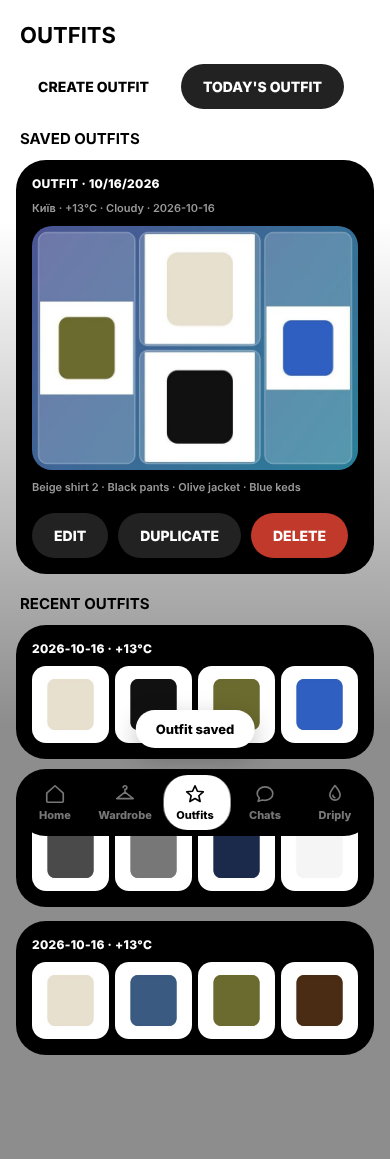
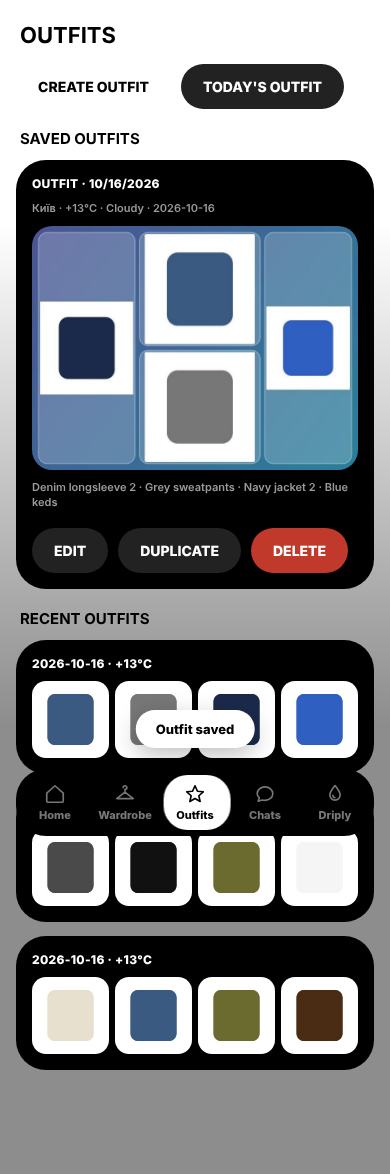
Keep pages scrollable so the tab bar sits at the same bottom position on every tab (iOS), SW v100
Claude-Session: https://claude.ai/code/session_01S2HiD2gXmzHQ91dDofdPVs

diff --git a/sw.js b/sw.js
@@ -1,4 +1,4 @@
-const V='wardrobe-v99',MEDIA='wd-media',DEMO=["demo/chinos-beige.webp", "demo/coat-trench.webp", "demo/coat-wool.webp", "demo/hoodie-black-zip.webp", "demo/hoodie-grey.webp", "demo/jacket-black-highneck.webp", "demo/jacket-bomber.webp", "demo/jacket-denim-black.webp", "demo/jacket-denim.webp", "demo/jacket-rain.webp", "demo/jacket-suede-beige.webp", "demo/jeans-black-flare.webp", "demo/jeans-black-wide.webp", "demo/jeans-black.webp", "demo/jeans-blue.webp", "demo/jeans-lightblue-flare.webp", "demo/loafers-brown.webp", "demo/longsleeve-striped.webp", "demo/polo-black.webp", "demo/polo-white.webp", "demo/puffer-black.webp", "demo/puffer-white.webp", "demo/shirt-blue.webp", "demo/shirt-white.webp", "demo/shorts-denim.webp", "demo/sneakers-black.webp", "demo/sneakers-gat-black.webp", "demo/sneakers-gat-white.webp", "demo/sneakers-white.webp", "demo/sweater-beige.webp", "demo/sweater-black-cable.webp", "demo/sweater-black-quarter.webp", "demo/sweater-grey-cable.webp", "demo/sweater-navy.webp", "demo/sweater-pink-cable.webp", "demo/sweater-white-cable.webp", "demo/sweatpants-grey.webp", "demo/tee-black.webp", "demo/tee-grey.webp", "demo/tee-white.webp", "demo/trousers-black.webp", "demo/jordan-puffer-black.webp", "demo/palace-puffer-black.webp", "demo/bape-tee-white.webp", "demo/balenciaga-fortnite-tee.webp", "demo/polo-usa-zip-hoodie-grey.webp", "demo/mastermind-hoodie-black.webp", "demo/mastermind-hoodie-pink.webp", "demo/supreme-waffle-sweater-cream.webp", "demo/supreme-waffle-sweater-black.webp", "demo/saint-laurent-mohair-sweater.webp", "demo/supreme-blur-sweater.webp", "demo/supreme-zip-hoodie-black.webp", "demo/supreme-zip-hoodie-grey.webp", "demo/supreme-zip-hoodie-washed-black.webp"],SHELL=['./','index.html','i18n.js','social.js','editor.js','chat.js','manifest.webmanifest','icons/icon-192.png','icons/icon-512.png','tab.mp3'];
+const V='wardrobe-v100',MEDIA='wd-media',DEMO=["demo/chinos-beige.webp", "demo/coat-trench.webp", "demo/coat-wool.webp", "demo/hoodie-black-zip.webp", "demo/hoodie-grey.webp", "demo/jacket-black-highneck.webp", "demo/jacket-bomber.webp", "demo/jacket-denim-black.webp", "demo/jacket-denim.webp", "demo/jacket-rain.webp", "demo/jacket-suede-beige.webp", "demo/jeans-black-flare.webp", "demo/jeans-black-wide.webp", "demo/jeans-black.webp", "demo/jeans-blue.webp", "demo/jeans-lightblue-flare.webp", "demo/loafers-brown.webp", "demo/longsleeve-striped.webp", "demo/polo-black.webp", "demo/polo-white.webp", "demo/puffer-black.webp", "demo/puffer-white.webp", "demo/shirt-blue.webp", "demo/shirt-white.webp", "demo/shorts-denim.webp", "demo/sneakers-black.webp", "demo/sneakers-gat-black.webp", "demo/sneakers-gat-white.webp", "demo/sneakers-white.webp", "demo/sweater-beige.webp", "demo/sweater-black-cable.webp", "demo/sweater-black-quarter.webp", "demo/sweater-grey-cable.webp", "demo/sweater-navy.webp", "demo/sweater-pink-cable.webp", "demo/sweater-white-cable.webp", "demo/sweatpants-grey.webp", "demo/tee-black.webp", "demo/tee-grey.webp", "demo/tee-white.webp", "demo/trousers-black.webp", "demo/jordan-puffer-black.webp", "demo/palace-puffer-black.webp", "demo/bape-tee-white.webp", "demo/balenciaga-fortnite-tee.webp", "demo/polo-usa-zip-hoodie-grey.webp", "demo/mastermind-hoodie-black.webp", "demo/mastermind-hoodie-pink.webp", "demo/supreme-waffle-sweater-cream.webp", "demo/supreme-waffle-sweater-black.webp", "demo/saint-laurent-mohair-sweater.webp", "demo/supreme-blur-sweater.webp", "demo/supreme-zip-hoodie-black.webp", "demo/supreme-zip-hoodie-grey.webp", "demo/supreme-zip-hoodie-washed-black.webp"],SHELL=['./','index.html','i18n.js','social.js','editor.js','chat.js','manifest.webmanifest','icons/icon-192.png','icons/icon-512.png','tab.mp3'];
 self.addEventListener('install',e=>{e.waitUntil(caches.open(V).then(c=>c.addAll(SHELL).then(()=>Promise.all(DEMO.map(u=>c.add(u).catch(()=>{}))))).then(()=>self.skipWaiting()))});
 self.addEventListener('activate',e=>{e.waitUntil(caches.keys().then(k=>Promise.all(k.filter(x=>x!==V&&x!==MEDIA).map(x=>caches.delete(x)))).then(()=>self.clients.claim()))});
 self.addEventListener('fetch',e=>{

diff --git a/index.html b/index.html
@@ -191,6 +191,8 @@ h2.h3{font-size:15px;margin:20px 4px 12px}
 .sbk{display:flex;align-items:center;gap:6px;margin:0 0 4px}.sbk h2{margin:0}.sbb{border:0;background:none;color:var(--h);width:40px;height:40px;border-radius:50%;display:flex;align-items:center;justify-content:center;cursor:pointer;margin-left:-10px;transition:background .2s,transform .15s}.sbb:active{transform:scale(.88)}:root[data-theme=glass] .sbb,:root[data-theme=dark] .sbb{color:#fff}.sbb svg{fill:none;stroke:currentColor;stroke-width:2.2;stroke-linecap:round;stroke-linejoin:round}
 
 body.sv-open #app,body.sv-open nav{visibility:hidden}
+/* iOS home-screen apps anchor fixed-bottom bars ~60px higher when the page cannot scroll (Home, Wardrobe, Chats) than when it can (Outfits, Driply): always keep the page scrollable so the tab bar sits at the same place everywhere */
+#app{min-height:calc(100vh + 2px)}
 </style></head><body>
 <div id="off">Нет интернета — показаны сохранённые данные</div>
 <div id="app"></div>
